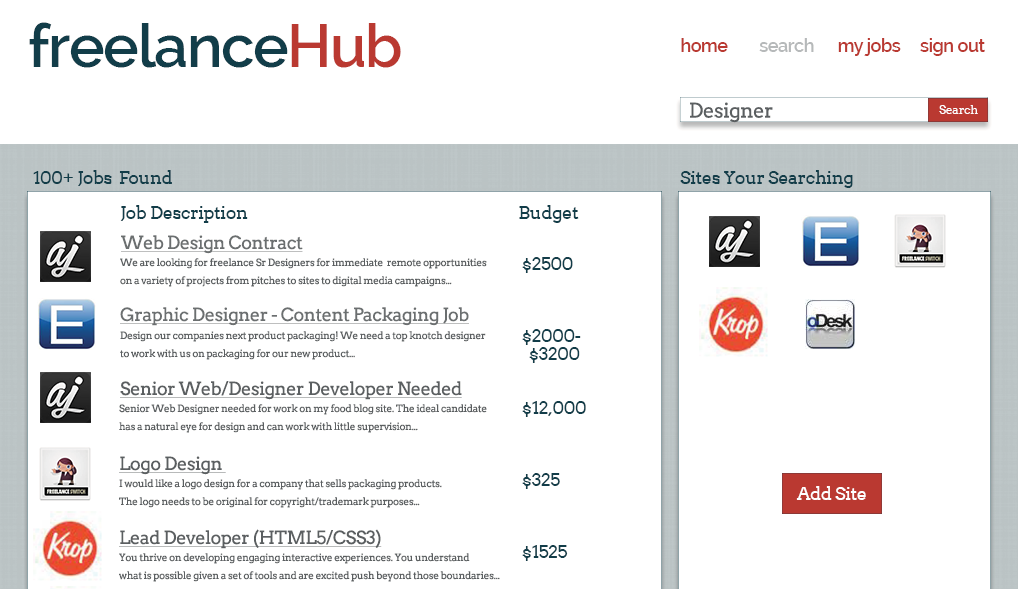
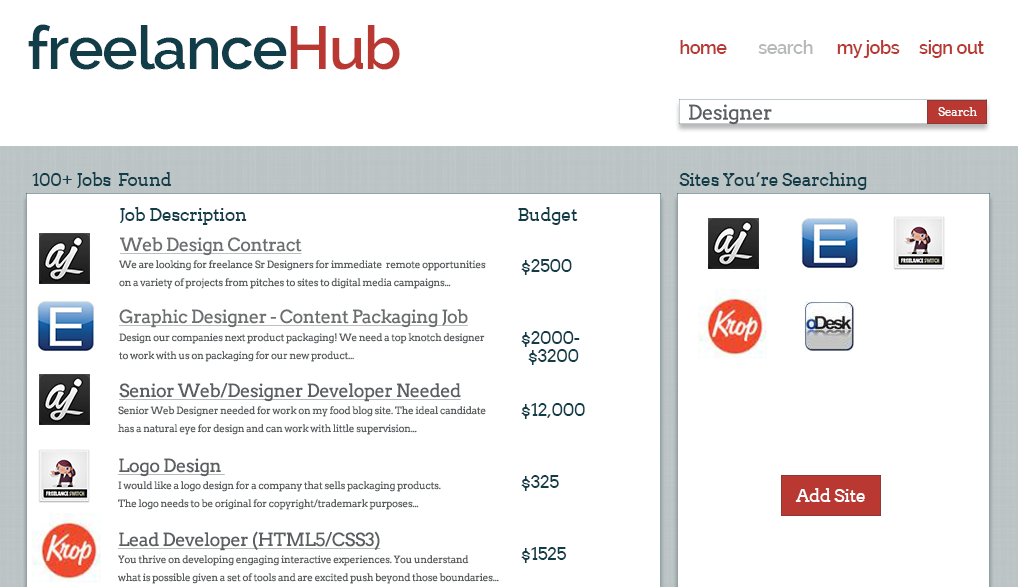
Added proper screenshots and images

diff --git a/Web/Content/CSS/Style.css b/Web/Content/CSS/Style.css
@@ -8,6 +8,7 @@ body
 img
 {
     max-width: 90%;
+    margin-top: 15px;
 }
 
 span.red {
@@ -246,7 +247,7 @@ section#features
 {
     height: 300px;
     width: 27.9166666%;
-    background: url('../images/plaid.png') repeat;
+    background-color: #cdd6d8;
     border-radius: 10px;
     -moz-border-radius: 10px;
     -webkit-border-radius: 10px;
@@ -350,7 +351,6 @@ ul#social-media li
     {
         height: 300px;
         width: 96%;
-        background: url('../images/plaid.png') repeat;
         border-radius: 10px;
         -moz-border-radius: 10px;
         -webkit-border-radius: 10px;
